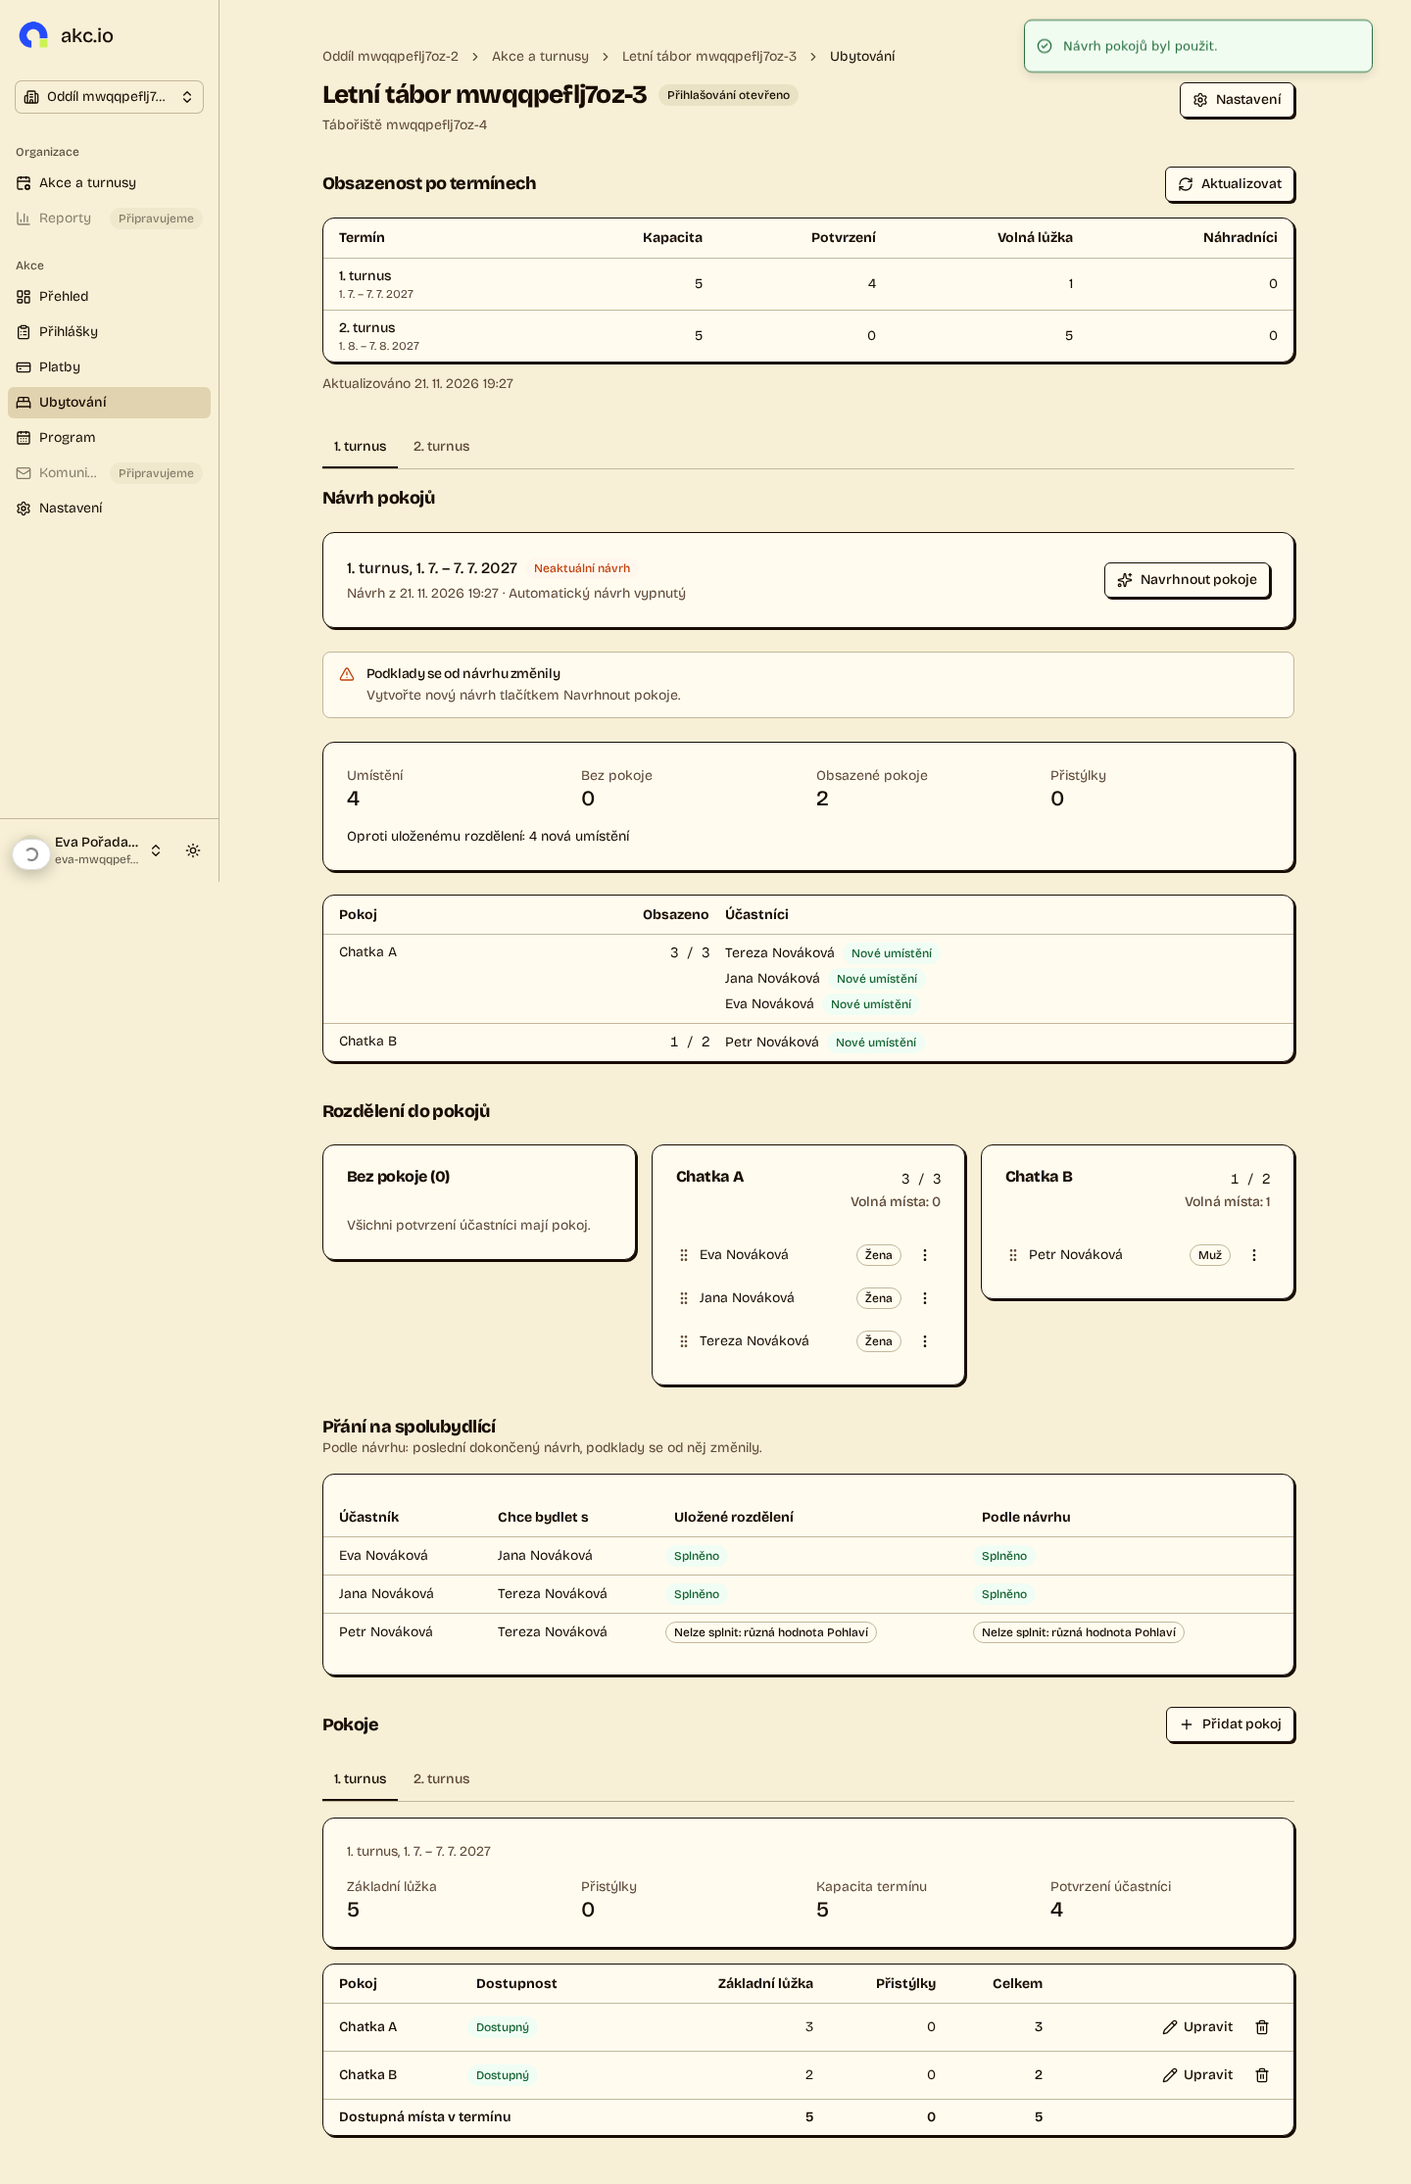
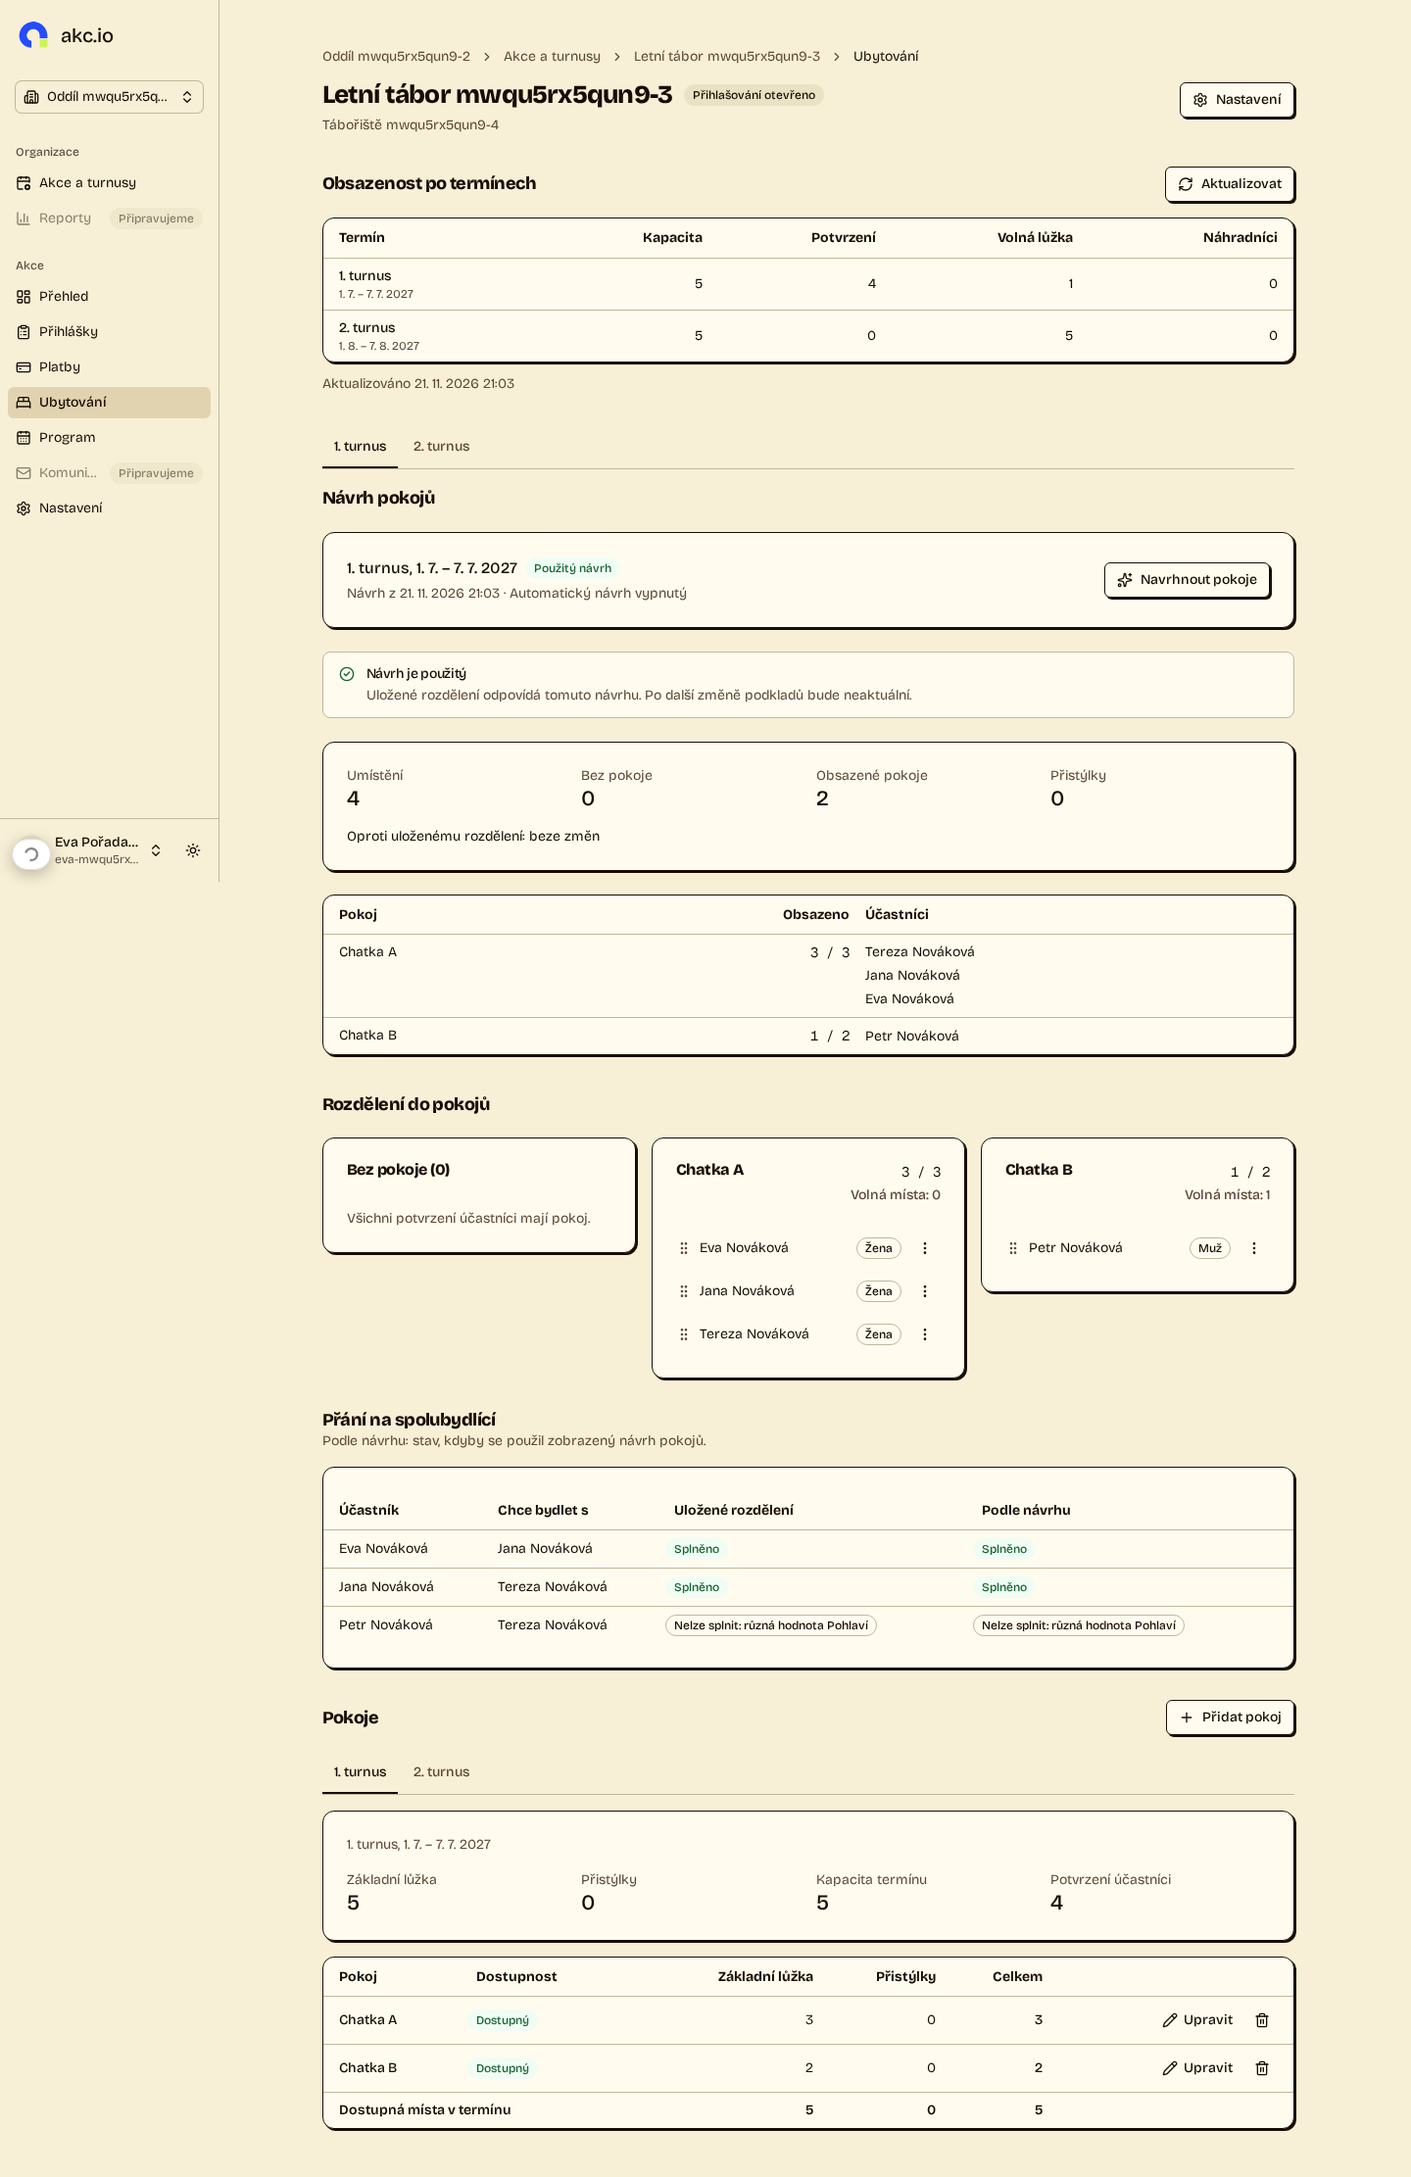
feat(accommodation): show an applied room proposal as applied, not stale
Applying a proposal moves the term's layout version on, so right after
"Použít návrh" the proposal read as "Neaktuální návrh" and still listed
the changes it had just saved. A solved proposal whose newest
application left the term at its current version is now `applied`
(with `appliedAt`): "Použitý návrh", a notice that the saved rooms
match it, no differences and no apply button. Any later change makes it
stale as before; the wish states count it as current meanwhile.

diff --git a/apps/backend/src/modules/accommodation/domain/proposal-view.ts b/apps/backend/src/modules/accommodation/domain/proposal-view.ts
@@ -22,6 +22,12 @@ export type ProposalViewStatus =
   | 'running'
   /** The last proposal read the term's current layout version. */
   | 'current'
+  /**
+   * The last proposal was applied ("Použít návrh", §7.2) and nothing changed
+   * since: the saved placements are its rooms. Its own layout version is
+   * older, as applying moved the term's on.
+   */
+  | 'applied'
   /** A layout change came after the last proposal (§7.1). */
   | 'stale'
   /** The last proposal failed; nothing usable. */
@@ -94,6 +100,8 @@ export type StoredProposalView = {
   finishedAt: Date;
   layoutVersion: number;
   isCurrent: boolean;
+  /** When it was applied, while nothing changed since; null otherwise. */
+  appliedAt: Date | null;
   /** A solved proposal only. */
   layout: ProposalLayoutView | null;
 };
@@ -120,6 +128,8 @@ export type StoredProposal = {
   layoutVersion: number;
   input: RoomProposalInput;
   result: RoomProposalResult | null;
+  /** Its newest application: the term's layout version after it, and when. */
+  lastApplied: { layoutVersion: number; at: Date } | null;
 };
 
 export type Names = ReadonlyMap<
@@ -215,6 +225,10 @@ function storedView(
     finishedAt: stored.finishedAt,
     layoutVersion: stored.layoutVersion,
     isCurrent: stored.layoutVersion === layoutVersion,
+    appliedAt:
+      stored.lastApplied?.layoutVersion === layoutVersion
+        ? stored.lastApplied.at
+        : null,
     layout:
       stored.result?.status === 'solved'
         ? buildLayout(stored.input, stored.result, names)
@@ -243,7 +257,9 @@ export function buildProposalView({
       : proposal.status === 'solved'
         ? proposal.isCurrent
           ? 'current'
-          : 'stale'
+          : proposal.appliedAt
+            ? 'applied'
+            : 'stale'
         : proposal.status;
   return {
     status,

diff --git a/apps/frontend/e2e/room-proposals.spec.ts b/apps/frontend/e2e/room-proposals.spec.ts
@@ -143,17 +143,19 @@ test("applying a proposal saves its rooms, and the wishes follow the saved rooms
   await expect(page.getByText("Návrh pokojů byl použit.")).toBeVisible()
 
   // Saved: the board has everyone in a room, Jana with Tereza, and the
-  // applied proposal is out of date now (the next one may suggest more).
+  // proposal reads as applied while nothing changes.
   const board = page.getByRole("region", { name: "Rozdělení do pokojů" })
   const roomCard = (person: string) =>
     board.locator('[data-slot="card"]').filter({ hasText: person }).filter({ hasText: "Chatka" })
   await expect(roomCard("Jana")).toContainText("Tereza")
   // The saved column, not the proposal's, which said so before the apply.
   await expect(savedStateOf("Jana")).toHaveText("Splněno")
-  await expect(proposal.getByText("Neaktuální návrh", { exact: true })).toBeVisible()
+  await expect(proposal.getByText("Použitý návrh", { exact: true })).toBeVisible()
+  await expect(proposal.getByRole("button", { name: "Použít návrh" })).toHaveCount(0)
 
-  // A manual change is read live too.
+  // A manual change is read live too, and the proposal is out of date then.
   await board.getByRole("button", { name: /^Akce: Jana/ }).click()
   await page.getByRole("menuitem", { name: "Odebrat z pokoje" }).click()
   await expect(savedStateOf("Jana")).toHaveText("Čeká na umístění")
+  await expect(proposal.getByText("Neaktuální návrh", { exact: true })).toBeVisible()
 })

diff --git a/apps/frontend/src/features/accommodation/components/RoomProposalSection.tsx b/apps/frontend/src/features/accommodation/components/RoomProposalSection.tsx
@@ -15,7 +15,7 @@ import {
 } from "@/features/accommodation/components/RoomProposal"
 import { useProposeRooms } from "@/features/accommodation/hooks/useProposeRooms"
 import { toEvaluationTerm } from "@/features/accommodation/lib/evaluationView"
-import { toProposalLayout } from "@/features/accommodation/lib/roomProposalView"
+import { asApplied, toProposalLayout } from "@/features/accommodation/lib/roomProposalView"
 
 type Term = { id: string; label: string; startDate: string; endDate: string }
 
@@ -93,7 +93,9 @@ export function RoomProposalSection({
   const data = proposal.data
   if (!data) return null
   const shown = data.lastSolved
-  const layout = shown?.layout ? toProposalLayout(shown.layout) : undefined
+  const proposed = shown?.layout ? toProposalLayout(shown.layout) : undefined
+  // Applied and nothing changed since: the saved placements are its rooms.
+  const layout = proposed && shown?.appliedAt ? asApplied(proposed) : proposed
   const term = common.terms.find((t) => t.id === termId)
 
   return (
@@ -106,7 +108,7 @@ export function RoomProposalSection({
       status={propose.isPending ? "running" : data.status}
       layout={layout}
       proposedAt={shown ? formatPragueDateTime(shown.finishedAt) : undefined}
-      isShownStale={shown ? !shown.isCurrent : false}
+      isShownStale={shown ? !shown.isCurrent && !shown.appliedAt : false}
       onPropose={() => propose.mutate()}
       applyAction={
         shown && layout && term ? (

diff --git a/apps/backend/src/modules/accommodation/dto/room-proposal.dto.ts b/apps/backend/src/modules/accommodation/dto/room-proposal.dto.ts
@@ -15,6 +15,7 @@ const STATUSES: ProposalViewStatus[] = [
   'none',
   'running',
   'current',
+  'applied',
   'stale',
   'failed',
   'timeout',
@@ -257,6 +258,15 @@ export class StoredProposalDto {
   isCurrent!: boolean;
 
   @ApiProperty({
+    format: 'date-time',
+    type: String,
+    nullable: true,
+    description:
+      'When it was applied, while the term has not changed since; null otherwise.',
+  })
+  appliedAt!: string | null;
+
+  @ApiProperty({
     type: ProposalLayoutDto,
     nullable: true,
     description: 'For a solved proposal.',
@@ -268,6 +278,7 @@ export class StoredProposalDto {
       ...proposal,
       startedAt: proposal.startedAt.toISOString(),
       finishedAt: proposal.finishedAt.toISOString(),
+      appliedAt: proposal.appliedAt?.toISOString() ?? null,
       layout: proposal.layout && ProposalLayoutDto.from(proposal.layout),
     };
   }
@@ -281,7 +292,8 @@ export class TermRoomProposalDto {
     enum: STATUSES,
     description:
       '`running`: a proposal runs or was asked for · `current` / `stale`: ' +
-      'the last proposal matches / no longer matches the term · `failed` / ' +
+      'the last proposal matches / no longer matches the term · `applied`: ' +
+      'the last proposal was applied and the term has not changed since · `failed` / ' +
       '`timeout`: the last one is not usable · `none`.',
   })
   status!: ProposalViewStatus;

diff --git a/apps/frontend/src/features/accommodation/lib/roomProposalView.ts b/apps/frontend/src/features/accommodation/lib/roomProposalView.ts
@@ -55,6 +55,7 @@ export const PROPOSAL_STATUS_BADGE: Record<
   }
 > = {
   current: { label: "Aktuální návrh", variant: "success" },
+  applied: { label: "Použitý návrh", variant: "success" },
   stale: { label: "Neaktuální návrh", variant: "warning" },
   running: { label: "Navrhuje se", variant: "secondary" },
   failed: { label: "Návrh selhal", variant: "destructive-subtle" },
@@ -118,6 +119,24 @@ export function toProposalLayout(layout: ProposalLayoutData): RoomProposalLayout
     ),
     summary: layout.summary,
     isEmpty: layout.people.length === 0,
+  }
+}
+
+/**
+ * An applied layout (#390): its differences were against the placements
+ * saved before the apply, which now hold its rooms; none of them is left.
+ */
+export function asApplied(layout: RoomProposalLayout): RoomProposalLayout {
+  const settled = <T extends ProposalPerson>(person: T): T => ({
+    ...person,
+    change: null,
+    savedRoom: undefined,
+  })
+  return {
+    ...layout,
+    rooms: layout.rooms.map((room) => ({ ...room, people: room.people.map(settled) })),
+    unplaced: layout.unplaced.map(settled),
+    summary: { ...layout.summary, added: 0, moved: 0, removed: 0 },
   }
 }
 

diff --git a/apps/frontend/src/features/accommodation/fixtures/roomProposal.ts b/apps/frontend/src/features/accommodation/fixtures/roomProposal.ts
@@ -149,12 +149,14 @@ const stored = (overrides: Partial<StoredProposalData> = {}): StoredProposalData
   finishedAt: "2027-03-12T13:32:04Z",
   layoutVersion: 4,
   isCurrent: true,
+  appliedAt: null,
   layout: LAYOUT,
   ...overrides,
 })
 
 export type ProposalPreset =
   | "current"
+  | "applied"
   | "withSaved"
   | "incomplete"
   | "stale"
@@ -184,6 +186,18 @@ export function makeTermRoomProposal(
   const byPreset: Record<ProposalPreset, TermRoomProposalData> = {
     current: base("current", stored()),
     withSaved: base("current", stored({ layout: WITH_SAVED })),
+    // "Použít návrh" moved the term's version on; nothing changed since.
+    applied: {
+      ...base(
+        "applied",
+        stored({
+          layout: WITH_SAVED,
+          isCurrent: false,
+          appliedAt: "2027-03-12T13:40:00Z",
+        }),
+      ),
+      layoutVersion: 5,
+    },
     incomplete: base("current", stored({ layout: { ...LAYOUT, isComplete: false } })),
     stale: base("stale", stored({ isCurrent: false, layoutVersion: 3 })),
     running: base("running", stored({ isCurrent: false, layoutVersion: 3 })),

diff --git a/apps/frontend/src/screens/event/Rooms.stories.tsx b/apps/frontend/src/screens/event/Rooms.stories.tsx
@@ -180,6 +180,21 @@ export const Proposal: Story = {
   },
 }
 
+/** Applied, nothing changed since: the saved rooms are the proposal's; nothing left to apply. */
+export const ProposalApplied: Story = {
+  beforeEach: ({ msw }) => {
+    msw.use(...accommodationHandlers.termRoomProposal(makeTermRoomProposal("applied")))
+  },
+  play: async ({ canvas }) => {
+    const section = within(await canvas.findByRole("region", { name: "Návrh pokojů" }))
+    await expect(await section.findByText("Použitý návrh")).toBeVisible()
+    await expect(section.getByText("Návrh je použitý")).toBeVisible()
+    await expect(section.getByText(/beze změn/)).toBeVisible()
+    await expect(section.queryByText("Nové umístění")).not.toBeInTheDocument()
+    await expect(section.queryByRole("button", { name: "Použít návrh" })).not.toBeInTheDocument()
+  },
+}
+
 /** Against saved placements: a move, a locked placement, a lost room and a lock conflict. */
 export const ProposalWithSavedPlacements = proposalStory("withSaved", "Přesun z Chata Dub")
 

diff --git a/apps/backend/src/modules/accommodation/domain/proposal-view.spec.ts b/apps/backend/src/modules/accommodation/domain/proposal-view.spec.ts
@@ -84,6 +84,7 @@ const stored = (
     preferences: [{ kind: 'wishes' }],
   },
   result,
+  lastApplied: null,
   ...extra,
 });
 
@@ -117,6 +118,19 @@ describe('the status of a term’s room proposal', () => {
     expect(view(proposal).proposal?.isCurrent).toBe(true);
     expect(view(proposal, 4).status).toBe('stale');
     expect(view(proposal, 4).proposal?.isCurrent).toBe(false);
+  });
+
+  it('is applied after "Použít návrh" until the term changes again', () => {
+    const at = new Date('2027-03-01T10:05:00Z');
+    const applied = { ...proposal, lastApplied: { layoutVersion: 4, at } };
+    expect(view(applied, 4).status).toBe('applied');
+    expect(view(applied, 4).proposal).toMatchObject({
+      isCurrent: false,
+      appliedAt: at,
+    });
+    expect(view(applied, 4).lastSolved?.appliedAt).toEqual(at);
+    expect(view(applied, 5).status).toBe('stale');
+    expect(view(applied, 5).proposal?.appliedAt).toBeNull();
   });
 
   it('is running while a proposal runs or was asked for, and keeps the last one', () => {

diff --git a/apps/backend/src/modules/accommodation/room-proposal-apply.db-spec.ts b/apps/backend/src/modules/accommodation/room-proposal-apply.db-spec.ts
@@ -315,6 +315,14 @@ describe('the proposal reads the saved placements and wishes', () => {
     });
     expect(kept.isLocked).toBe(true);
 
+    // The term shows the proposal as applied, not stale, until it changes.
+    const termView = () =>
+      f.call('GET', `${f.base}/terms/${f.terms[0].id}/room-proposal`);
+    let view = await termView();
+    expect(view.body.status).toBe('applied');
+    expect(view.body.lastSolved).toMatchObject({ isCurrent: false });
+    expect(view.body.lastSolved.appliedAt).toEqual(expect.any(String));
+
     const states = await f.call(
       'GET',
       `${f.base}/terms/${f.terms[0].id}/roommate-wishes`,
@@ -329,6 +337,12 @@ describe('the proposal reads the saved placements and wishes', () => {
         },
       ],
     });
+
+    // A manual move afterwards makes it stale like any other change.
+    await f.place(eva, 1);
+    view = await termView();
+    expect(view.body.status).toBe('stale');
+    expect(view.body.lastSolved.appliedAt).toBeNull();
   });
 });
 

diff --git a/apps/backend/src/modules/accommodation/repositories/room-proposal.repository.ts b/apps/backend/src/modules/accommodation/repositories/room-proposal.repository.ts
@@ -312,14 +312,25 @@ export class RoomProposalRepository {
         layoutVersion: true,
         input: true,
         result: true,
+        applications: {
+          orderBy: [{ createdAt: 'desc' }, { id: 'desc' }],
+          take: 1,
+          select: { layoutVersion: true, createdAt: true },
+        },
       },
     });
-    return row
-      ? {
-          ...row,
-          input: (row.input as unknown as ProposalSnapshot).input,
-          result: row.result as RoomProposalResult | null,
-        }
-      : null;
+    if (!row) return null;
+    const { applications, ...stored } = row;
+    return {
+      ...stored,
+      input: (row.input as unknown as ProposalSnapshot).input,
+      result: row.result as RoomProposalResult | null,
+      lastApplied: applications[0]
+        ? {
+            layoutVersion: applications[0].layoutVersion,
+            at: applications[0].createdAt,
+          }
+        : null,
+    };
   }
 }

diff --git a/apps/frontend/src/features/accommodation/api/roomProposalSchemas.ts b/apps/frontend/src/features/accommodation/api/roomProposalSchemas.ts
@@ -22,6 +22,7 @@ export const roomProposalStatusSchema = z.enum([
   "none",
   "running",
   "current",
+  "applied",
   "stale",
   "failed",
   "timeout",
@@ -98,6 +99,8 @@ const storedProposalSchema = z.object({
   finishedAt: z.string(),
   layoutVersion: z.number().int(),
   isCurrent: z.boolean(),
+  /** When it was applied, while the term has not changed since; null otherwise. */
+  appliedAt: z.string().nullable(),
   layout: proposalLayoutSchema.nullable(),
 })
 export type StoredProposalData = z.infer<typeof storedProposalSchema>

diff --git a/apps/frontend/src/features/accommodation/components/RoomProposal.tsx b/apps/frontend/src/features/accommodation/components/RoomProposal.tsx
@@ -296,6 +296,15 @@ function StatusNotice({
   isShownStale,
 }: Pick<RoomProposalProps, "status" | "mode" | "isShownStale"> & { hasLayout: boolean }) {
   switch (status) {
+    case "applied":
+      return (
+        <Notice
+          tone="success"
+          title="Návrh je použitý"
+        >
+          Uložené rozdělení odpovídá tomuto návrhu. Po další změně podkladů bude neaktuální.
+        </Notice>
+      )
     case "stale":
       return (
         <Notice
